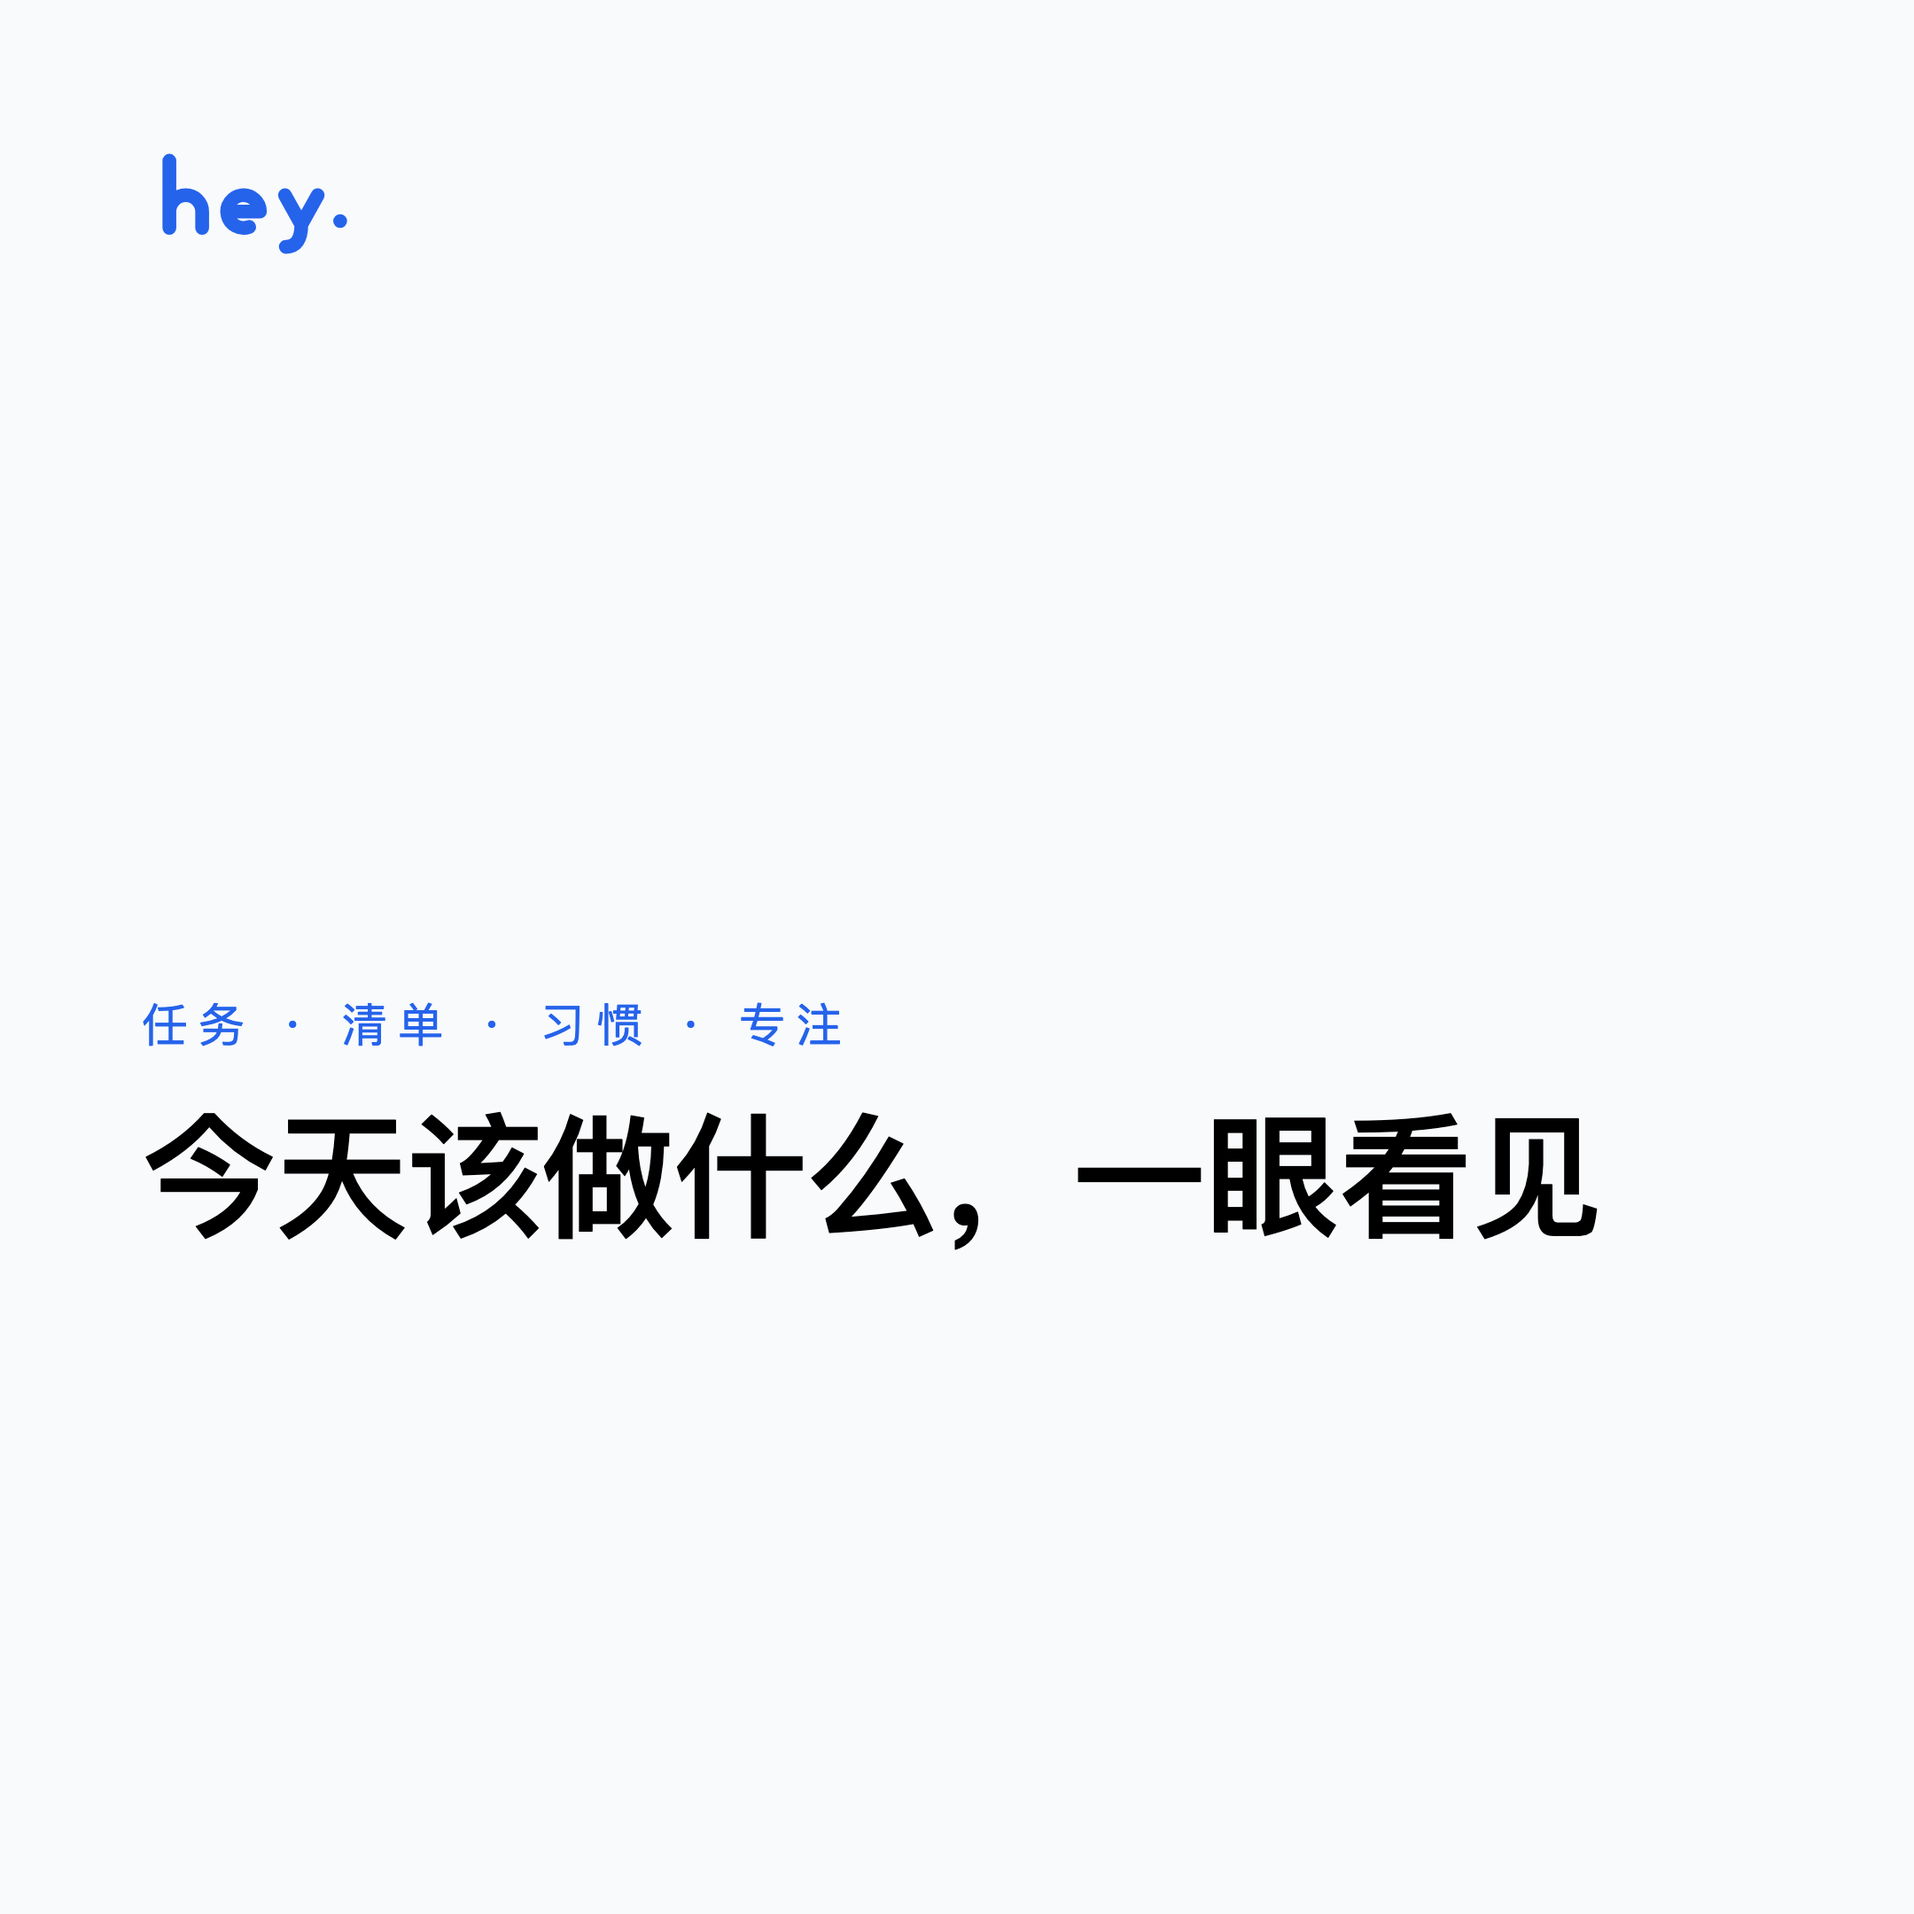
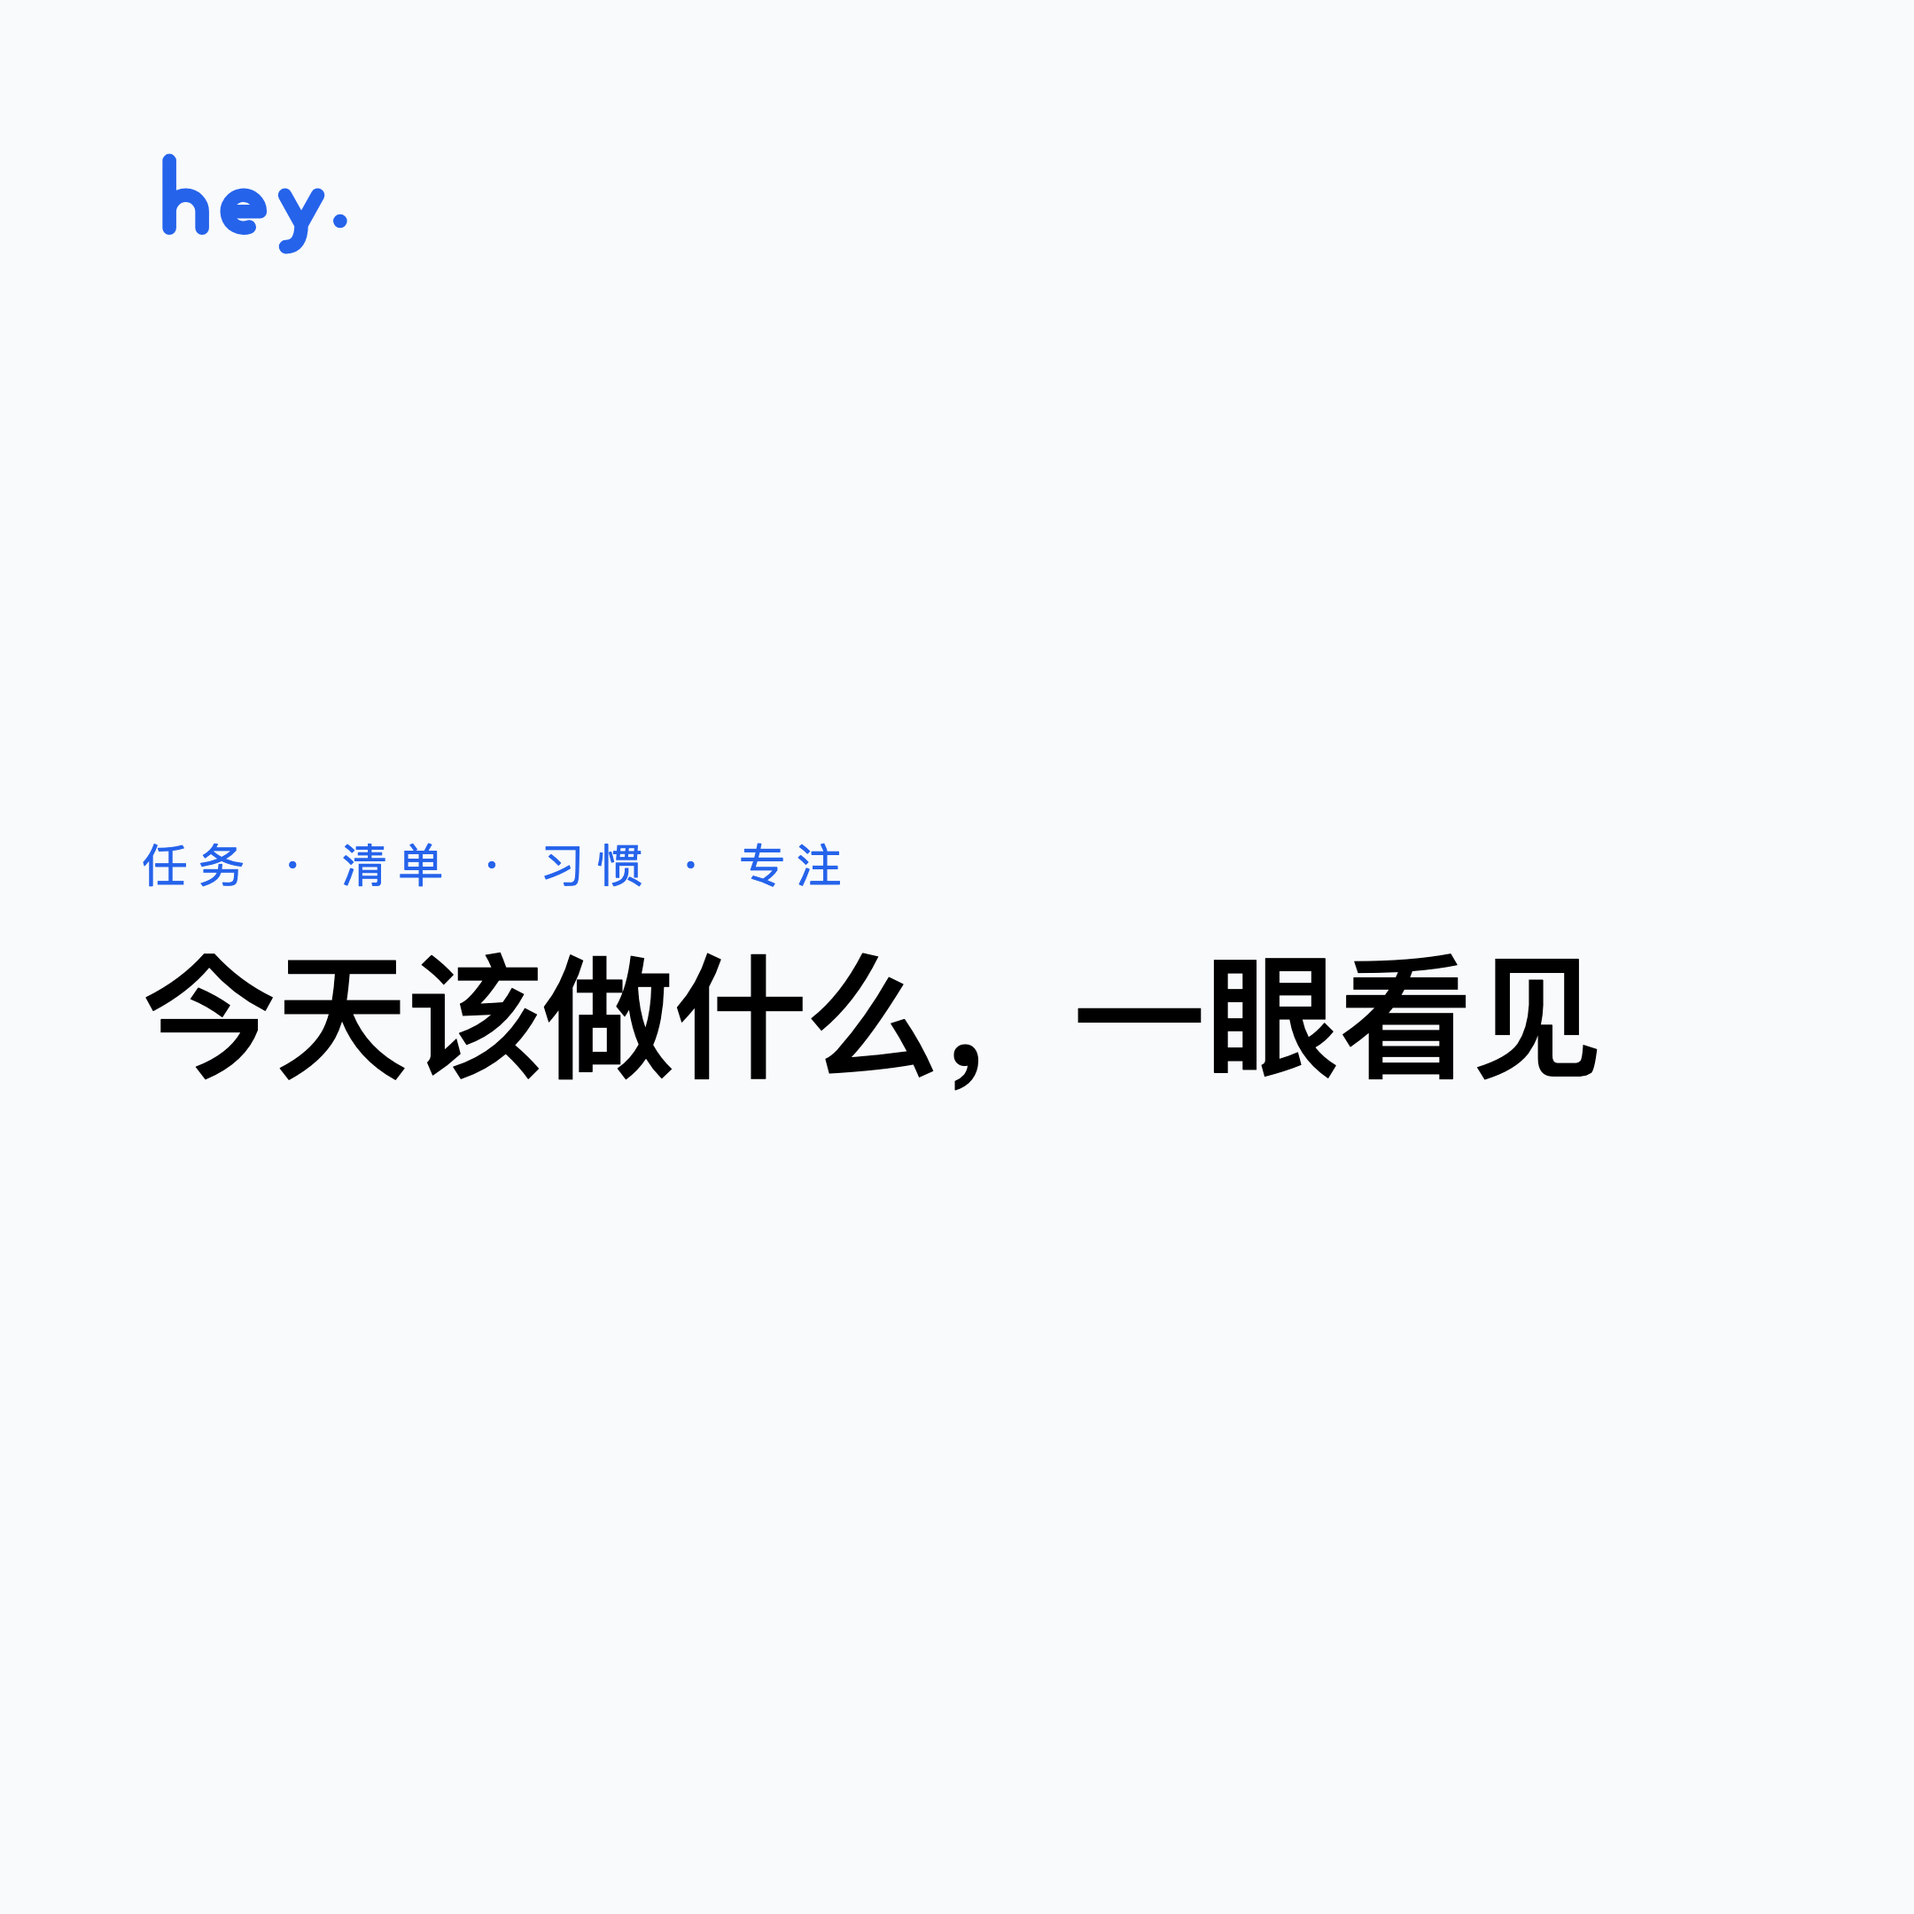
feat(brand-kit): 身份标签门槛从产物 SVG 里读出来对账（第 21 组）
上一组只对**id 集合**：8 个文件都对，但门槛改了却没重建徽章时，
徽章上印的数字就是错的，而 id 集合完全正常 —— 这类问题看不出来。

第 21 组直接**读产物 SVG 里的 `≥N` 文字**，与 `identity-tags.ts` 的 threshold 逐项比：
- 实况：8 个标签全部一致
- 证明：把 steady.svg 的「≥100」改成「≥99」→ exit=1
  「steady: 徽章印 ≥99，领域层是 ≥100」

顺带复核（本轮第 2、3 项，无缺陷）：
- 05 海报 03 换成 5 枚胶囊后版面正常（待办/已完成/已逾期/已归档/高优先级，无空白格）
- 09-social 方图只有"品牌小字 + 标语"两层，符合「不加解释性文字」的口径；
  仅把内容块上移 90px，减少顶部空洞

现状：21 组 / 44 项全绿。

diff --git a/brand-kit/index.html b/brand-kit/index.html
@@ -13,7 +13,7 @@ header .wm{height:34px} h1{margin:14px 0 0;font-size:26px;font-weight:800;letter
 footer{padding:22px 44px;color:#94a3b8;font-size:12px;border-top:1px solid #e2e8f0}
 </style></head><body>
 <header><img class="wm" src="01-logo/wordmark-white.svg" alt="hey.">
-<h1>heyta · brand-kit</h1><div class="sub">本地优先任务管理 · 品牌资产套件 · 163 files · 2026-11-25 05:36:37</div></header>
+<h1>heyta · brand-kit</h1><div class="sub">本地优先任务管理 · 品牌资产套件 · 163 files · 2026-11-25 05:40:48</div></header>
 <div class="grid"><a class="c" href="02-badges/badge-catalogue.pdf"><div class="im"><img src="02-badges/badge-catalogue.png"></div><div class="t">成长标识体系图鉴</div><div class="s">17 里程碑 · 8 身份标签 · 8 分类色槽</div></a><a class="c" href="00-brand-foundation/brand-book.pdf"><div class="im"><img src="00-brand-foundation/_preview/page-01.png"></div><div class="t">品牌手册 Brand Book</div><div class="s">8 页 · 标识/色彩/字体/成长</div></a><a class="c" href="01-logo/lockup-horizontal.svg"><div class="im"><img src="01-logo/lockup-horizontal@1x.png"></div><div class="t">字标 + 图标锁版</div><div class="s">「hey.」+「h」</div></a><a class="c" href="03-icons/icon-sheet.html"><div class="im"><img src="03-icons/icon-sheet.png"></div><div class="t">图标集 Icon Set</div><div class="s">线性 26 枚</div></a><a class="c" href="04-imagery/contact-sheet.png"><div class="im"><img src="04-imagery/contact-sheet.png"></div><div class="t">04 位图素材</div><div class="s">本地 MOSS-Image · 背景/插画/周边</div></a><a class="c" href="05-posters/01_品牌主视觉.pdf"><div class="im"><img src="05-posters/01_品牌主视觉.png"></div><div class="t">品牌主视觉海报</div><div class="s">A3 · PDF/PNG</div></a><a class="c" href="05-posters/02_核心能力.pdf"><div class="im"><img src="05-posters/02_核心能力.png"></div><div class="t">核心能力海报</div><div class="s">A3 · PDF/PNG</div></a><a class="c" href="05-posters/03_成长里程碑.pdf"><div class="im"><img src="05-posters/03_成长里程碑.png"></div><div class="t">成长里程碑海报</div><div class="s">A3 · PDF/PNG</div></a><a class="c" href="07-product-manual/heyta_product-manual.pdf"><div class="im"><img src="07-product-manual/heyta_product-manual_cover.png"></div><div class="t">产品手册</div><div class="s">10 页 PDF</div></a><a class="c" href="08-merch/merch-sheet.pdf"><div class="im"><img src="08-merch/merch-sheet.png"></div><div class="t">品牌周边</div><div class="s">笔记本/马克杯/帆布包/贴纸</div></a><a class="c" href="09-social/og-card_1200x630.png"><div class="im"><img src="09-social/og-card_1200x630.png"></div><div class="t">社交 OG 卡片</div><div class="s">1200×630</div></a><a class="c" href="09-social/post_1080x1080.png"><div class="im"><img src="09-social/post_1080x1080.png"></div><div class="t">社交方图</div><div class="s">1080×1080</div></a><a class="c" href="10-templates/slide-16x9.png"><div class="im"><img src="10-templates/slide-16x9.png"></div><div class="t">幻灯片模板</div><div class="s">16:9</div></a><a class="c" href="10-templates/release-card_1080x1350.png"><div class="im"><img src="10-templates/release-card_1080x1350.png"></div><div class="t">更新日志卡</div><div class="s">1080×1350</div></a><a class="c" href="00-brand-foundation/brand-tokens.css"><div class="im"><img src="00-brand-foundation/_preview/page-04.png"></div><div class="t">色彩系统</div><div class="s">主蓝 × slate</div></a><a class="c" href="02-badges/category/分类色卡.png"><div class="im"><img src="02-badges/category/分类色卡.png"></div><div class="t">活动分类色卡</div><div class="s">8 色槽 · 用户赋义</div></a></div>
 <footer>生成管线照 litopia12/brand-kit 的结构 · 字标/图标/色值取自 heyta 设计系统真源 · 成长体系取自仓库已实现的激励与成长体系</footer>
 </body></html>

diff --git a/brand-kit/_pipeline/check_artifacts.py b/brand-kit/_pipeline/check_artifacts.py
@@ -549,6 +549,32 @@ if _broken:
 else:
     emit("✅ 产物里的本地引用全部可达（无空白图/空链接）")
 
+# 21) 身份标签徽章上印的「≥N」必须等于领域层的 threshold
+#     上一组只对了 id 集合；门槛改了却没重建徽章时，**徽章上印的数字就是错的**，
+#     而 id 集合完全正常。这里直接读产物 SVG 里的文字。
+TAGS_TS = os.path.join(ROOT, "packages/domain/src/identity-tags.ts")
+TAG_DIR = os.path.join(WD, "02-badges/identity")
+if os.path.exists(TAGS_TS) and os.path.isdir(TAG_DIR):
+    src = open(TAGS_TS, encoding="utf-8").read()
+    pairs = re.findall(r"\{\s*id:\s*'([\w-]+)',\s*kind:\s*'\w+',\s*threshold:\s*(\d+)\s*\}", src)
+    if not pairs:
+        fail("身份标签：从 identity-tags.ts 取不到 id/threshold 对 —— 上游结构变了")
+    else:
+        wrong = []
+        for tid, thr in pairs:
+            f = os.path.join(TAG_DIR, tid + ".svg")
+            if not os.path.exists(f):
+                continue  # 由第 15/19 组负责缺文件
+            m = re.search(r"≥(\d+)", open(f, encoding="utf-8").read())
+            if not m:
+                wrong.append(f"{tid}: 徽章上找不到 ≥N")
+            elif m.group(1) != thr:
+                wrong.append(f"{tid}: 徽章印 ≥{m.group(1)}，领域层是 ≥{thr}")
+        if wrong:
+            fail(f"身份标签门槛与领域层不符：{wrong[:4]}")
+        else:
+            emit(f"✅ 身份标签徽章上的门槛 = 领域层（{len(pairs)} 个）")
+
 if not fails:
     if JSON_OUT:
         import json as _j

diff --git a/brand-kit/_pipeline/build_docs.py b/brand-kit/_pipeline/build_docs.py
@@ -225,7 +225,7 @@ def social_post(lang: str = "zh"):
     # 同样：eyebrow 与主标都取自 i18n 的同一个 key，不再自造短句
     b=f'''<div style="width:1080px;height:1080px;position:relative;overflow:hidden;background:{SUN}">
       <img src="{WM_B}" style="position:absolute;left:80px;top:80px;height:70px">
-      <div style="position:absolute;left:80px;right:80px;top:560px"><div style="font-size:26px;letter-spacing:6px;color:{BLUE}">{RC.t("landing.hero.eyebrow", lang)}</div>
+      <div style="position:absolute;left:80px;right:80px;top:470px"><div style="font-size:26px;letter-spacing:6px;color:{BLUE}">{RC.t("landing.hero.eyebrow", lang)}</div>
       <h1 style="font-size:{76 if lang=="zh" else 58}px;font-weight:800;line-height:1.25;margin-top:20px;letter-spacing:-1px">{RC.tagline_html(lang)}</h1></div>
     </div>'''
     return f"<!doctype html><html><head><meta charset='utf-8'><style>*{{margin:0;padding:0}}body{{font-family:{FONT}}}</style></head><body>{b}</body></html>"

diff --git a/brand-kit/README.md b/brand-kit/README.md
@@ -17,7 +17,7 @@
 | # | 判据 | 抓的是什么 |
 |---|---|---|
 | 1 | 色值白名单 | 产物里出现非 token 的十六进制 |
-| 2 | 数量 | 17 里程碑 / 8 身份标签 / 5 状态胶囊 / 26 图标 / 10 字标 + png 从 1x/2x 齐全 |
+| 2 | 数量 | 17 里程碑 / 8 身份标签 / 5 状态胶囊 / 26 图标 / 10 字标 + 各 svg 有对应 png |
 | 3 | 关键产物存在且非空 | 图鉴 pdf+png、品牌手册 pdf |
 | 4 | PDF 字体全嵌入 + 页数符合设计 | 换机器变宋体/变方框；页数漂移 |
 | 5 | `index.html` 相对链接可达 | 卡片生成了但 href 指不到 |
@@ -36,6 +36,7 @@
 | 18 | `03-icons` 的 svg 全部进了 `icon-sheet.html` | 加了图标但总览页没收录 |
 | 19 | 状态胶囊 key = 产品真实状态（todo/done/overdue/archived/high） | 印出产品里不存在的状态（「进行中」已按此删掉） |
 | 20 | 产物里的本地 `src/href` 全部可达 | 删了状态却没删引用 → 海报上一枚空白胶囊 |
+| 21 | 身份标签徽章上印的 `≥N` = 领域层 threshold | id 全对但门槛改了没重建徽章 |
 
 ⚠ **PDF 每次重建字节都不同**（Chrome 打印头里带时间戳/文档 ID），PNG 与 SVG 是稳定的。
 所以比对 PDF 时看页数/字体/视觉，不要看 sha256 —— 否则每次都会以为「有改动」。
